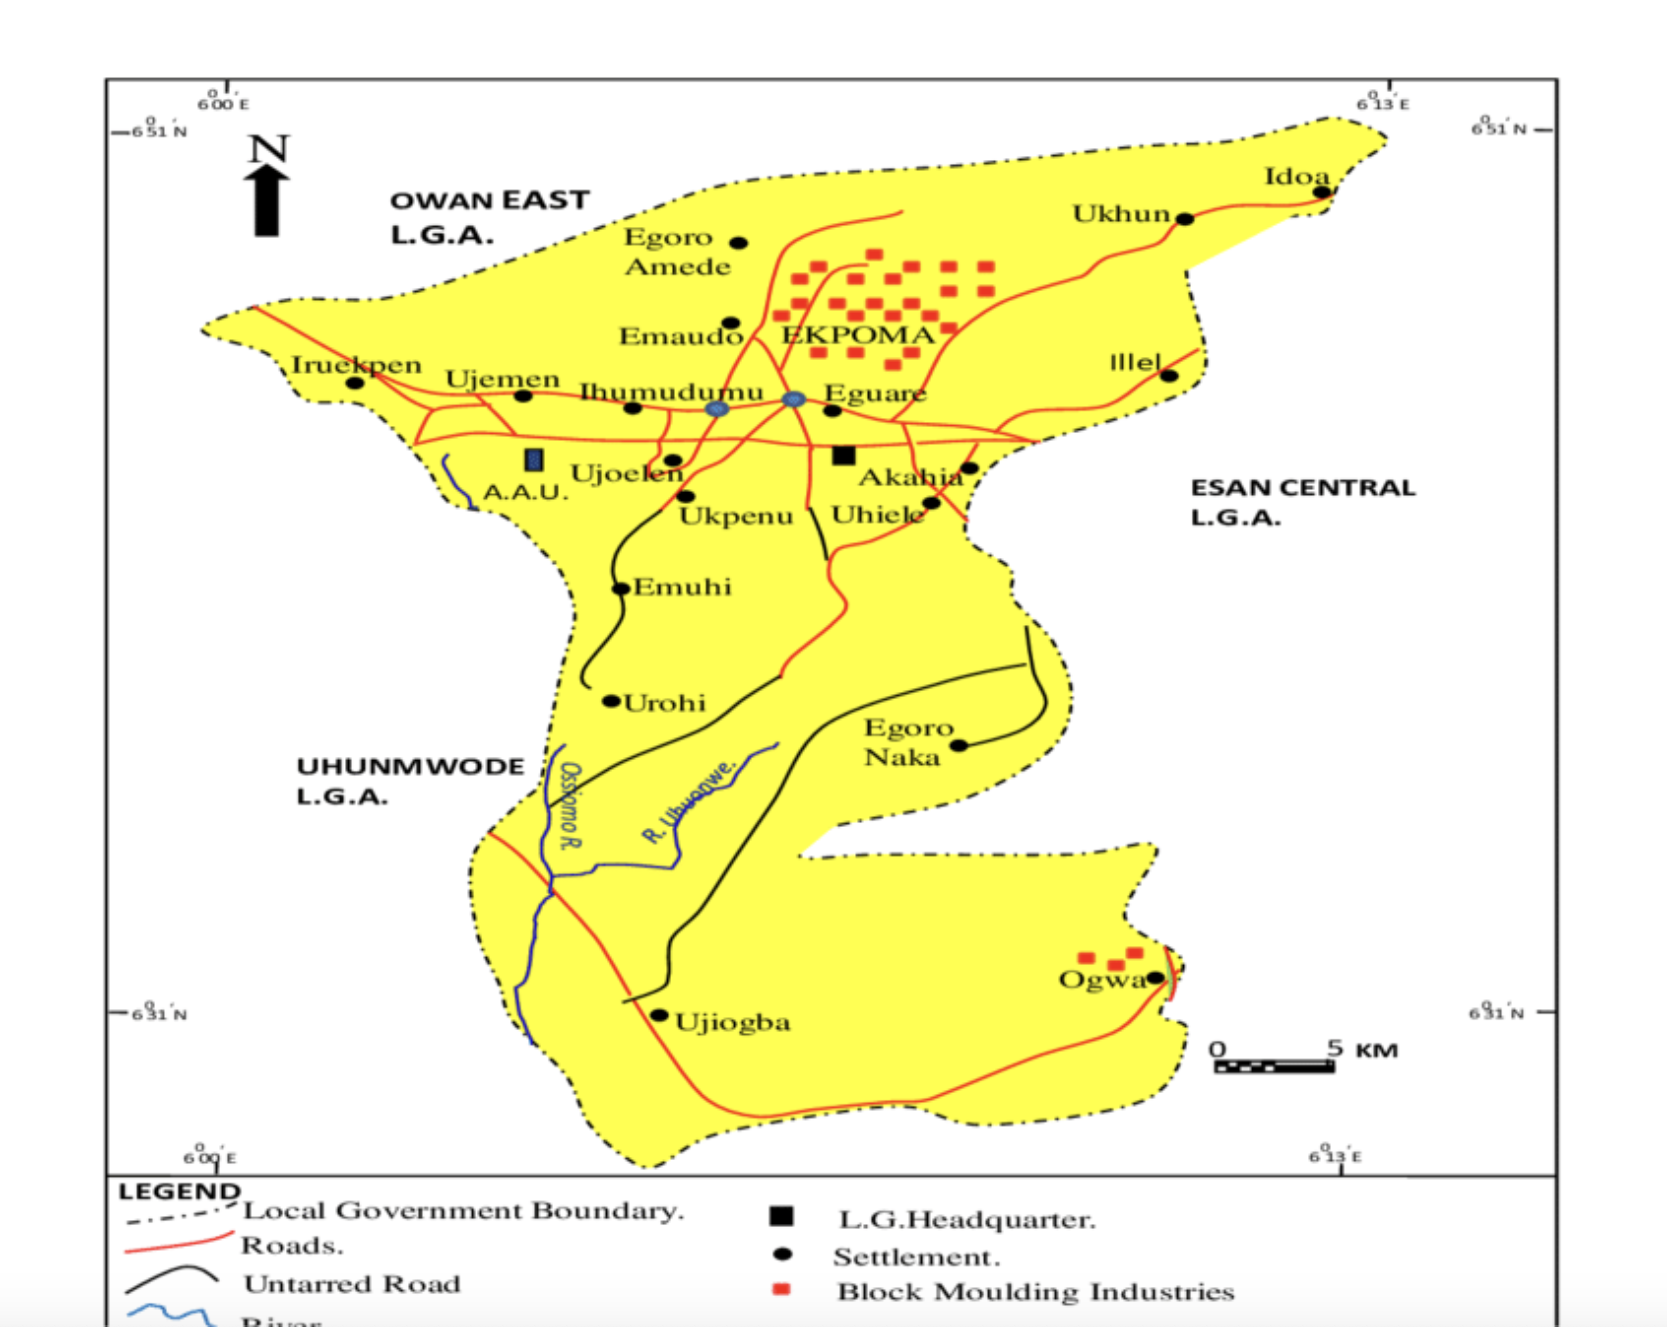
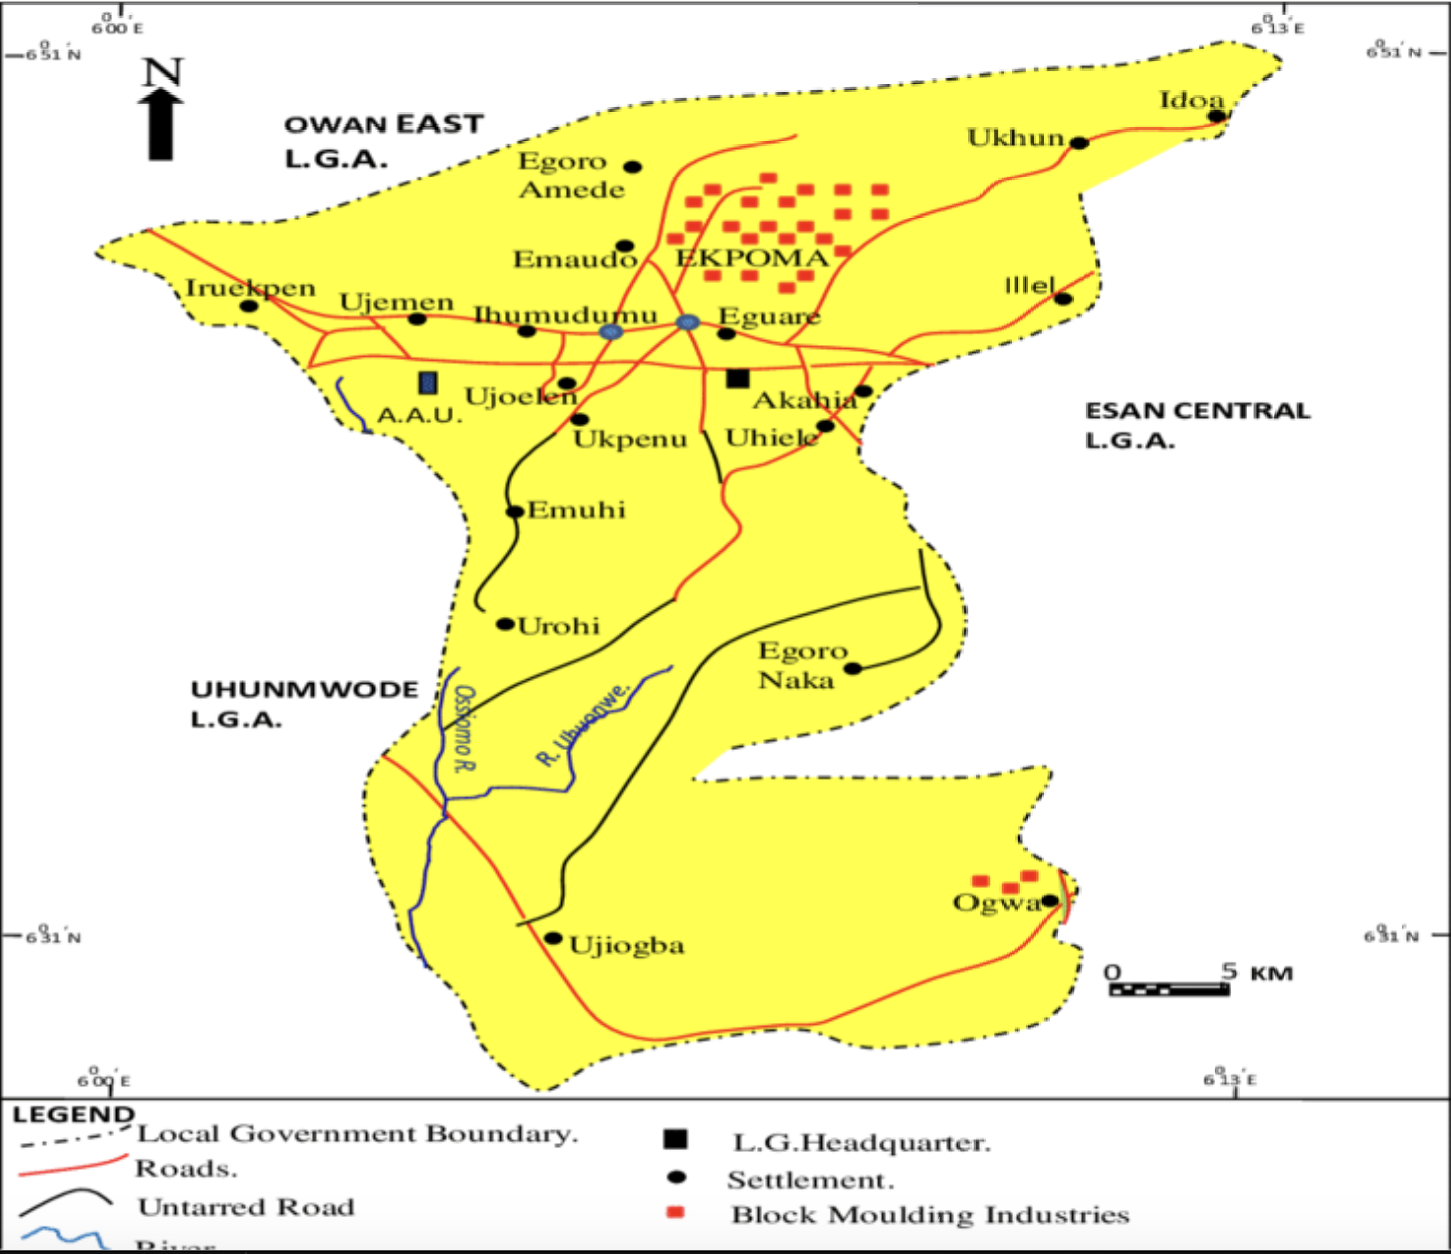
culture page completed

Changed region(s): [[0.0, 0.0, 1.0, 1.0], [0.7133, 0.311, 0.8994, 0.4043]]

diff --git a/app/culture/page.jsx b/app/culture/page.jsx
@@ -1,63 +1,65 @@
 "use client";
 
 import { BriefHeading } from "@/components/BriefAbout/styles";
-import { Typography } from "@mui/material";
+import { Divider, Typography } from "@mui/material";
 import { Box, Container } from "@mui/system";
 import { MissionVisionContainer } from "../about/styles";
 import { PhotoSilderHeading } from "@/components/PhotoSlider/styles";
-import { TownTourProduceContainer } from "./styles";
-import esanwestmap from "../../public/images/eahesanwestmap.png";
+import {
+  MapWardTableContainer,
+  ProduceAndTour,
+  TownTourProduceContainer,
+} from "./styles";
 import Image from "next/image";
 import WardsTable from "@/components/WardsTable";
 
+import esanwestmap from "../../public/images/eahesanwestmap.png";
+import market from "../../public/images/eahmarket.png";
+
 export default function culture() {
   return (
-    <div>
-      <Container>
-        <BriefHeading>
-          <h2>Esan West People And Culture</h2>
-        </BriefHeading>
+    <Container sx={{ mt: "10rem" }}>
+      <BriefHeading>
+        <h2>Esan West People And Culture</h2>
+      </BriefHeading>
+      <Box sx={{ py: "2rem" }}>
+        <Typography sx={{ pb: "1rem" }}>
+          Esan West is a Local Government Area in Edo State, Nigeria, with its
+          administrative headquarters located in the town of Ekpoma. Covering a
+          total area of 502 km², Esan West has an estimated population of over
+          190,000 people, comprising more than 60,000 adult males and 60,000
+          adult females, according to the 2016 census. With a population density
+          of approximately 333.3 people per km², it is one of the key regions
+          contributing to the socio-economic growth of Edo State.
+        </Typography>
+        <Typography>
+          Esan West is home to the prestigious Ambrose Alli University (AAU),
+          Ekpoma, which was founded in 1981 by Professor Ambrose Folorunsho
+          Alli, a former governor of Bendel State (now Edo and Delta States).
+          The university has since become a center for academic excellence,
+          attracting students from across the country and beyond.
+        </Typography>
+      </Box>
+
+      <MapWardTableContainer>
+        <Image
+          src={esanwestmap}
+          alt="map of esan west"
+          style={{ width: "100%", height: "auto" }}
+        />
+        <WardsTable />
+      </MapWardTableContainer>
+      <Divider />
+
+      <TownTourProduceContainer>
         <Box>
-          <Typography>
-            Esan West is a Local Government Area in Edo State, Nigeria, with its
-            administrative headquarters located in the town of Ekpoma. Covering
-            a total area of 502 km², Esan West has an estimated population of
-            over 190,000 people, comprising more than 60,000 adult males and
-            60,000 adult females, according to the 2016 census. With a
-            population density of approximately 333.3 people per km², it is one
-            of the key regions contributing to the socio-economic growth of Edo
-            State.
-          </Typography>
-          <Typography>
-            Esan West is home to the prestigious Ambrose Alli University (AAU),
-            Ekpoma, which was founded in 1981 by Professor Ambrose Folorunsho
-            Alli, a former governor of Bendel State (now Edo and Delta States).
-            The university has since become a center for academic excellence,
-            attracting students from across the country and beyond.
-          </Typography>
-        </Box>
-        <Box>
-          <Box>
-            <Image src={esanwestmap} alt="map of esan west" width={700} />
-            <WardsTable />
-          </Box>
-        </Box>
-        <TownTourProduceContainer>
-          <MissionVisionContainer>
-            <PhotoSilderHeading>Towns and Villages</PhotoSilderHeading>
-            <Typography>
-              Ekpoma, Iruekpen, Ujemen, Idumebo, Ihumudumu, Uhiele, Emuhi, Ogwa,
-              Ekhiro, Ukpenu, Ujoelen Eguare, Emaudo, Egoro Amede, Egoro Naoka,
-              Ebhakuala, Ukhun, Idoa, Urohi, Akahio, Illeh, Ekoh-Ine, Ujiogba.
-            </Typography>
-          </MissionVisionContainer>
-          <MissionVisionContainer>
+          <ProduceAndTour>
             <PhotoSilderHeading>Agricultural Products</PhotoSilderHeading>
             <Typography>
               Cocoa, Oil palm, Rubber, Kola, Cassava, Cocoyam, Pineapple,
               Plantain, Rice and Citrus fruits, Pepper, Tomatoes.
             </Typography>
-          </MissionVisionContainer>
+          </ProduceAndTour>
           <MissionVisionContainer>
             <PhotoSilderHeading>Tourist Attractions</PhotoSilderHeading>
             <Typography>
@@ -66,8 +68,16 @@ export default function culture() {
               in Ukhun Kingdom.
             </Typography>
           </MissionVisionContainer>
-        </TownTourProduceContainer>
-      </Container>
-    </div>
+        </Box>
+        <Box>
+          <Image
+            src={market}
+            alt="market"
+            style={{ width: "100%", height: "auto" }}
+            className="market"
+          />
+        </Box>
+      </TownTourProduceContainer>
+    </Container>
   );
 }

diff --git a/app/culture/styles.js b/app/culture/styles.js
@@ -2,9 +2,30 @@ import { Box, styled } from "@mui/system";
 
 export const TownTourProduceContainer = styled(Box)`
   display: grid;
-  grid-template-columns: 1fr 1fr 1fr;
-  gap: 1rem;
+  grid-template-columns: 1fr 1fr;
+  justify-content: space-between;
+  gap: 2rem;
+  margin: 5rem 0;
+  text-align: center;
+
+  @media (max-width: 868px) {
+    display: flex;
+    flex-direction: column;
+    justify-content: center;
+  }
 `;
+
+export const ProduceAndTour = styled(Box)`
+  box-shadow: rgba(0, 0, 0, 0.1) 0px 4px 12px;
+  border-radius: 10px;
+  padding: 2rem;
+  margin-bottom: 3rem;
+
+  @media (max-width: 768px) {
+    margin-bottom: 1rem;
+  }
+`;
+
 export const DrawerMenu = styled(Box)`
   display: flex;
   flex-direction: column;
@@ -17,4 +38,21 @@ export const MobileMenuLogoContainer = styled(Box)`
   display: flex;
   justify-content: space-between;
   align-items: center;
+`;
+
+export const MapWardTableContainer = styled(Box)`
+  display: grid;
+  grid-template-columns: 60% 40%;
+  gap: 1rem;
+  margin: 2rem 0 5rem 0;
+
+  @media (max-width: 1068px) {
+    grid-template-columns: 70% 30%;
+    gap: 5px;
+  }
+  @media (max-width: 868px) {
+    grid-template-columns: 100%;
+    grid-template-rows: 1fr;
+    gap: 1rem;
+  }
 `;

diff --git a/components/WardsTable/index.jsx b/components/WardsTable/index.jsx
@@ -1,4 +1,3 @@
-import * as React from "react";
 import { styled } from "@mui/material/styles";
 import Table from "@mui/material/Table";
 import TableBody from "@mui/material/TableBody";
@@ -10,7 +9,7 @@ import Paper from "@mui/material/Paper";
 
 const StyledTableCell = styled(TableCell)(({ theme }) => ({
   [`&.${tableCellClasses.head}`]: {
-    backgroundColor: theme.palette.common.black,
+    backgroundColor: "#118B50",
     color: theme.palette.common.white,
   },
   [`&.${tableCellClasses.body}`]: {
@@ -31,7 +30,13 @@ const StyledTableRow = styled(TableRow)(({ theme }) => ({
 export default function WardsTable() {
   return (
     <TableContainer component={Paper}>
-      <Table sx={{ minWidth: 700 }} aria-label="customized table">
+      <Table
+        sx={{
+          width: "100%",
+          minWidth: { sm: "100%", md: 300 }, // Full width on small devices, 350px on larger
+        }}
+        aria-label="customized table"
+      >
         <TableHead>
           <TableRow>
             <StyledTableCell>Wards</StyledTableCell>

diff --git a/app/about/styles.js b/app/about/styles.js
@@ -2,7 +2,7 @@ import { Button } from "@mui/material";
 import { Box, styled } from "@mui/system";
 
 export const MissionVisionContainer = styled(Box)`
-  border: 2px solid #118b50;
+  box-shadow: rgba(0, 0, 0, 0.1) 0px 4px 12px;
   border-radius: 10px;
   padding: 2rem;
 

diff --git a/components/BriefAbout/styles.js b/components/BriefAbout/styles.js
@@ -30,7 +30,7 @@ export const WelcomeContainer = styled(Box)`
 `;
 
 export const WelcomeParagraph = styled(Typography)`
-  border: 2px solid #118b50;
+  box-shadow: rgba(0, 0, 0, 0.1) 0px 4px 12px;
   border-radius: 10px;
   padding: 1rem;
 `;

diff --git a/app/globals.css b/app/globals.css
@@ -173,3 +173,7 @@ a {
 .img {
   border-radius: 100%;
 }
+
+.market {
+  border-radius: 10px;
+}
